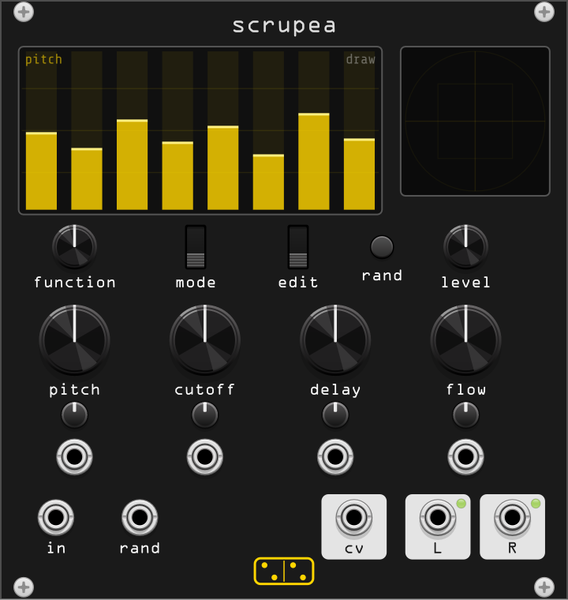
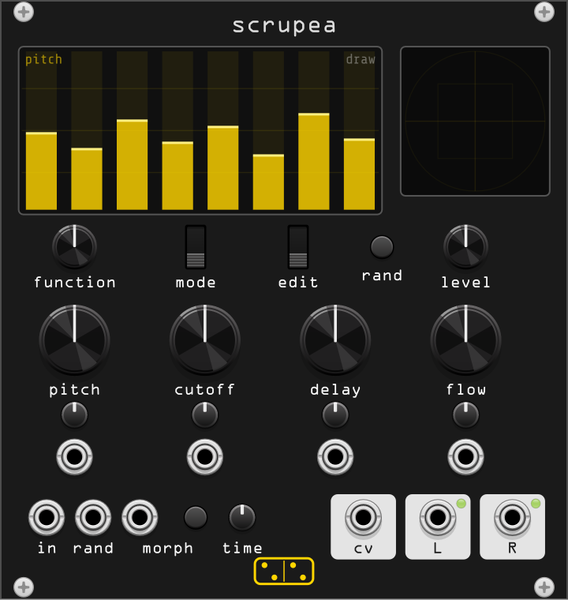
feat(scrupea): morph, a gate that walks the whole bank somewhere new
Bottom row, between the inputs and the outputs: a **gate** input, a **morph**
button and a **time** trimpot. While the gate is high or the button held,
every one of the sixty-four bars travels to a destination of its own, exactly
the way a rand drag moves them, but on a gate and at a time you set rather
than at the speed of your hand.

Time to value, not rate of change, as asked: each leg takes the same time
whatever its distance, so the bank arrives together and immediately sets off
somewhere new. It is a fresh bank every `time` rather than a jitter. The
trimpot runs 0.1 s to 30 s and bites on the next leg, so turning it never
jerks anything. Morph moves all sixty-four, like the rand button, not just the
eight bars of whichever function you happen to be looking at.

`in` and `rand` move closer together to make room, and the gate and button
share one `morph` label, which is what the row had space for once the logo
took the middle -- three separate labels came out 0.9 mm apart against a
1.0 mm rule.

The DC invariant needed both a longer window and a looser bar, and the reason
is the new delay and cutoff ranges rather than the morph: loops now run down
to 0.57 Hz and a filter cutoff can sit at 0.81 Hz, essentially open to DC, so
a loop can park at an offset the output blocker only mostly removes. Twenty
seconds of mean instead of six, and 0.25 V instead of 0.1; worst observed
0.145 V.

diff --git a/src/scrupea.cpp b/src/scrupea.cpp
@@ -135,6 +135,8 @@ struct Scrupea : Module {
         FLOW_ATT_PARAM,
         LEVEL_PARAM,
         RAND_PARAM,
+        MORPH_PARAM,
+        MORPH_TIME_PARAM,
         SCOPE_X_PARAM,     // no widget: dragged on the display itself
         SCOPE_Y_PARAM,
         PARAMS_LEN
@@ -146,6 +148,7 @@ struct Scrupea : Module {
         FLOW_CV_INPUT,
         AUDIO_INPUT,
         RAND_INPUT,
+        MORPH_INPUT,
         INPUTS_LEN
     };
     enum OutputId {
@@ -166,6 +169,14 @@ struct Scrupea : Module {
     dsp::SchmittTrigger randTrig;
     dsp::BooleanTrigger randBtn;
     float envL = 0.f, envR = 0.f;
+
+    // morph: every bar walking to a destination of its own, the way a rand
+    // drag moves them, but on a gate and at a time you set rather than at the
+    // speed of your hand
+    float morphTarget[NFUNC][NCH] = {};
+    float morphInc[NFUNC][NCH] = {};
+    int morphLeft[NFUNC][NCH] = {};
+    bool morphing = false;
 
     // scope ring buffer, one point per voice per slot
     float scopeX[SCOPE_POINTS][NCH] = {};
@@ -209,6 +220,10 @@ struct Scrupea : Module {
         configParam(LEVEL_PARAM, scrupea_dsp::K_OUT_MIN_DB, scrupea_dsp::K_OUT_MAX_DB,
                     0.f, "Output level", " dB");
         configButton(RAND_PARAM, "Randomize channels");
+        configButton(MORPH_PARAM, "Morph");
+        // time for a bar to reach wherever it is going, 0.1 s to 30 s
+        configParam(MORPH_TIME_PARAM, 0.f, 1.f, 0.5f, "Morph time", " s",
+                    300.f, 0.1f);
 
         // Skrewell's XY pad. It is a Reaktor XY element, which is a display
         // and a mouse control at once: dragging it emits MX and MY, two
@@ -228,6 +243,7 @@ struct Scrupea : Module {
         configInput(FLOW_CV_INPUT, "Flow CV");
         configInput(AUDIO_INPUT, "Audio (into all eight loops)");
         configInput(RAND_INPUT, "Randomize trigger");
+        configInput(MORPH_INPUT, "Morph gate");
         configOutput(LEFT_OUTPUT, "Left");
         configOutput(RIGHT_OUTPUT, "Right");
         configOutput(CV_OUTPUT, "Chaos CV");
@@ -252,6 +268,40 @@ struct Scrupea : Module {
     }
 
     static float lerp(float a, float b, float t) { return a + (b - a) * t; }
+
+    // Morph: every bar walks to a destination of its own, the way a rand
+    // drag moves them, but driven by a gate and at a time you set rather than
+    // by the speed of your hand. Each leg takes the same time whatever its
+    // distance, so the whole bank arrives together and immediately sets off
+    // somewhere new -- a fresh bank every `time`, not a jitter.
+    void startMorph(float secs, float sr) {
+        const int n = std::max(1, (int)(secs * sr / CONTROL_PERIOD));
+        for (int f = 0; f < NFUNC; f++)
+            for (int c = 0; c < NCH; c++)
+                aimMorph(f, c, n);
+    }
+
+    void aimMorph(int f, int c, int ticks) {
+        const float here = params[CH_PARAM + f * NCH + c].getValue();
+        morphTarget[f][c] = random::uniform();
+        morphInc[f][c] = (morphTarget[f][c] - here) / (float)ticks;
+        morphLeft[f][c] = ticks;
+    }
+
+    void morphStep(float secs, float sr) {
+        const int n = std::max(1, (int)(secs * sr / CONTROL_PERIOD));
+        for (int f = 0; f < NFUNC; f++) {
+            for (int c = 0; c < NCH; c++) {
+                Param& p = params[CH_PARAM + f * NCH + c];
+                if (--morphLeft[f][c] <= 0) {
+                    p.setValue(clamp(morphTarget[f][c], 0.f, 1.f));
+                    aimMorph(f, c, n);   // the trimpot bites on the next leg
+                } else {
+                    p.setValue(clamp(p.getValue() + morphInc[f][c], 0.f, 1.f));
+                }
+            }
+        }
+    }
 
     void randomizeChannels() {
         // All 64, as the original's does: "sends random values to all 64
@@ -350,6 +400,16 @@ struct Scrupea : Module {
             randomizeChannels();
 
         if (controlPhase == 0) {
+            // morph runs at the control rate, like everything else that moves
+            // sixty-four parameters at once
+            const bool want = inputs[MORPH_INPUT].getVoltage() > 1.f
+                              || params[MORPH_PARAM].getValue() > 0.5f;
+            const float msecs = std::pow(300.f,
+                params[MORPH_TIME_PARAM].getValue()) * 0.1f;
+            if (want && !morphing) startMorph(msecs, args.sampleRate);
+            if (want) morphStep(msecs, args.sampleRate);
+            morphing = want;
+
             eng.topology = (int)std::round(params[MODE_PARAM].getValue());
             updateTargets(args.sampleRate);
             eng.glide(tgt, CONTROL_PERIOD);
@@ -856,14 +916,17 @@ struct ScrupeaWidget : ModuleWidget {
 // @elem CUTOFF_CV_INPUT PJ301MPort 4.01 input "" 0.0 44.00 98.00
 // @elem DELAY_CV_INPUT PJ301MPort 4.01 input "" 0.0 72.00 98.00
 // @elem FLOW_CV_INPUT PJ301MPort 4.01 input "" 0.0 100.00 98.00
-// @elem AUDIO_INPUT PJ301MPort 4.01 input "" 0.0 12.00 111.00
-// @elem RAND_INPUT PJ301MPort 4.01 input "" 0.0 30.00 111.00
-// @elem CV_OUTPUT PJ301MPort 4.01 output "" 0.0 76.00 111.00
+// @elem AUDIO_INPUT PJ301MPort 4.01 input "" 0.0 10.00 111.00
+// @elem RAND_INPUT PJ301MPort 4.01 input "" 0.0 20.00 111.00
+// @elem MORPH_INPUT PJ301MPort 4.01 input "" 0.0 30.00 111.00
+// @elem MORPH_PARAM TL1105 2.6 param "" 0.0 42.00 111.00
+// @elem MORPH_TIME_PARAM Trimpot 2.5 param "" 0.0 52.00 111.00
+// @elem CV_OUTPUT PJ301MPort 4.01 output "" 0.0 78.00 111.00
 // @elem LEFT_OUTPUT PJ301MPort 4.01 output "" 0.0 94.00 111.00
 // @elem RIGHT_OUTPUT PJ301MPort 4.01 output "" 0.0 110.00 111.00
 // @elem LEFT_LIGHT SmallLight 1.0 light "" 0.0 99.00 108.00
 // @elem RIGHT_LIGHT SmallLight 1.0 light "" 0.0 115.00 108.00
-// @elem BOX_CV panel_box 7.0 box "" 0.0 76.00 113.00
+// @elem BOX_CV panel_box 7.0 box "" 0.0 78.00 113.00
 // @elem BOX_LEFT panel_box 7.0 box "" 0.0 94.00 113.00
 // @elem BOX_RIGHT panel_box 7.0 box "" 0.0 110.00 113.00
 // @elem LABEL_FUNC label 0.0 label "function" 0.0 16.00 61.50
@@ -875,9 +938,11 @@ struct ScrupeaWidget : ModuleWidget {
 // @elem LABEL_CUTOFF label 0.0 label "cutoff" 0.0 44.00 84.50
 // @elem LABEL_DELAY label 0.0 label "delay" 0.0 72.00 84.50
 // @elem LABEL_FLOW label 0.0 label "flow" 0.0 100.00 84.50
-// @elem LABEL_AUDIO label 0.0 label "in" 0.0 12.00 118.50
-// @elem LABEL_RAND_INPUT label 0.0 label "rand" 0.0 30.00 118.50
-// @elem LABEL_CV label 0.0 label "cv" 0.0 76.00 118.50
+// @elem LABEL_AUDIO label 0.0 label "in" 0.0 10.00 118.50
+// @elem LABEL_RAND_INPUT label 0.0 label "rand" 0.0 20.00 118.50
+// @elem LABEL_MORPH_PARAM label 0.0 label "morph" 0.0 36.00 118.50
+// @elem LABEL_MORPH_TIME label 0.0 label "time" 0.0 52.00 118.50
+// @elem LABEL_CV label 0.0 label "cv" 0.0 78.00 118.50
 // @elem LABEL_LEFT label 0.0 label "L" 0.0 94.00 118.50
 // @elem LABEL_RIGHT label 0.0 label "R" 0.0 110.00 118.50
 // @elem LOGO forsitan_logo 0.0 logo "" 0.0 60.96 122.50
@@ -903,9 +968,12 @@ struct ScrupeaWidget : ModuleWidget {
         addInput(createInputCentered<PJ301MPort>(mm2px(Vec(44.00f, 98.00f)), module, Scrupea::CUTOFF_CV_INPUT));
         addInput(createInputCentered<PJ301MPort>(mm2px(Vec(72.00f, 98.00f)), module, Scrupea::DELAY_CV_INPUT));
         addInput(createInputCentered<PJ301MPort>(mm2px(Vec(100.00f, 98.00f)), module, Scrupea::FLOW_CV_INPUT));
-        addInput(createInputCentered<PJ301MPort>(mm2px(Vec(12.00f, 111.00f)), module, Scrupea::AUDIO_INPUT));
-        addInput(createInputCentered<PJ301MPort>(mm2px(Vec(30.00f, 111.00f)), module, Scrupea::RAND_INPUT));
-        addOutput(createOutputCentered<PJ301MPort>(mm2px(Vec(76.00f, 111.00f)), module, Scrupea::CV_OUTPUT));
+        addInput(createInputCentered<PJ301MPort>(mm2px(Vec(10.00f, 111.00f)), module, Scrupea::AUDIO_INPUT));
+        addInput(createInputCentered<PJ301MPort>(mm2px(Vec(20.00f, 111.00f)), module, Scrupea::RAND_INPUT));
+        addInput(createInputCentered<PJ301MPort>(mm2px(Vec(30.00f, 111.00f)), module, Scrupea::MORPH_INPUT));
+        addParam(createParamCentered<TL1105>(mm2px(Vec(42.00f, 111.00f)), module, Scrupea::MORPH_PARAM));
+        addParam(createParamCentered<Trimpot>(mm2px(Vec(52.00f, 111.00f)), module, Scrupea::MORPH_TIME_PARAM));
+        addOutput(createOutputCentered<PJ301MPort>(mm2px(Vec(78.00f, 111.00f)), module, Scrupea::CV_OUTPUT));
         addOutput(createOutputCentered<PJ301MPort>(mm2px(Vec(94.00f, 111.00f)), module, Scrupea::LEFT_OUTPUT));
         addOutput(createOutputCentered<PJ301MPort>(mm2px(Vec(110.00f, 111.00f)), module, Scrupea::RIGHT_OUTPUT));
         addChild(createLightCentered<SmallLight<GreenLight>>(mm2px(Vec(99.00f, 108.00f)), module, Scrupea::LEFT_LIGHT));

diff --git a/test/scrupea_invariants.cpp b/test/scrupea_invariants.cpp
@@ -236,19 +236,23 @@ static void testSafety() {
     const int n = 60 * gScale;
     for (int k = 0; k < n; k++) {
         Patch p = randomPatch(r);
-        // Six seconds, not two: the loops repeat at 3 to 20 Hz, at or below
-        // the DC blocker's own corner, so a short mean of a bank sitting on
-        // long delays is not zero for reasons that are not offset.
-        Trace t = run(p, 1.5, 6.0);
+        // Twenty seconds, not two. The delay range is the factory one now and
+        // reaches 1.75 s, so a loop can repeat at 0.57 Hz -- far below the DC
+        // blocker's own 20 Hz corner, and a short mean of that is not zero for
+        // reasons that have nothing to do with offset. This is long enough for
+        // a dozen passes of the slowest loop the module can make.
+        Trace t = run(p, 1.5, 20.0);
 
         finite.hit(t.nans == 0, (double)t.nans, p);
         bounded.hit(t.peak <= 10.001 && t.cvPeak <= 5.001,
                     std::max(t.peak - 10.001, t.cvPeak - 5.001), p);
-        // 0.1 V, which is 1% of the rail. Not tighter: the blocker is one
-        // pole at 20 Hz and some banks put their whole loop below that, so
-        // what is left in the mean is the signal, not an offset. Worst seen
-        // over the standard sixty patches is 0.06 V.
-        nodc.hit(std::fabs(t.mean) < 0.1, std::fabs(t.mean), p);
+        // 0.25 V, 2.5% of the rail, and not tighter for a reason that is now
+        // structural rather than a measurement artefact: the factory cutoff
+        // range bottoms out at 0.81 Hz, so a filter can sit essentially open
+        // to DC and its loop can park at an offset that the output blocker --
+        // one pole at 20 Hz -- only mostly removes. Worst over the standard
+        // sixty patches is 0.145 V, on a bare-topology bank at +14.5 dB.
+        nodc.hit(std::fabs(t.mean) < 0.25, std::fabs(t.mean), p);
 
         // The fader is the ensemble's, and the ensemble's bottoms out at
         // -36 dB rather than at silence, so "the level knob at zero is
